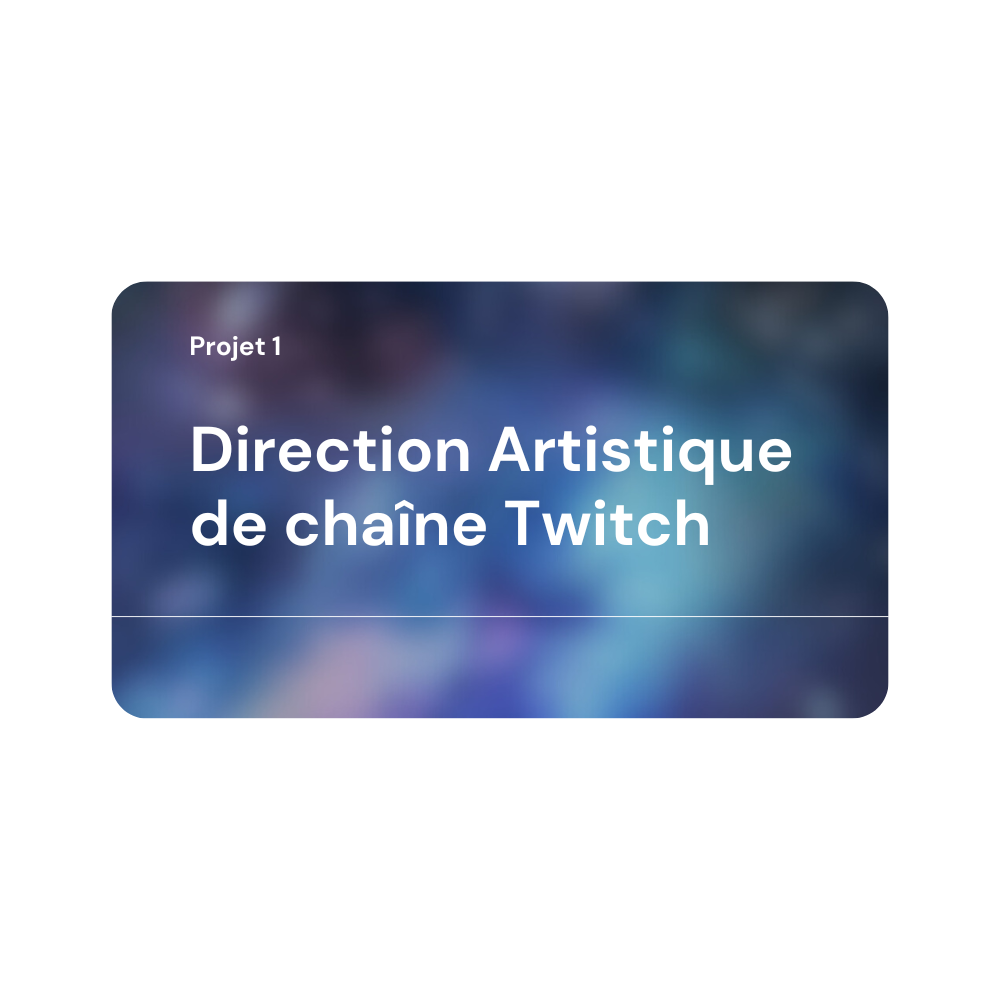
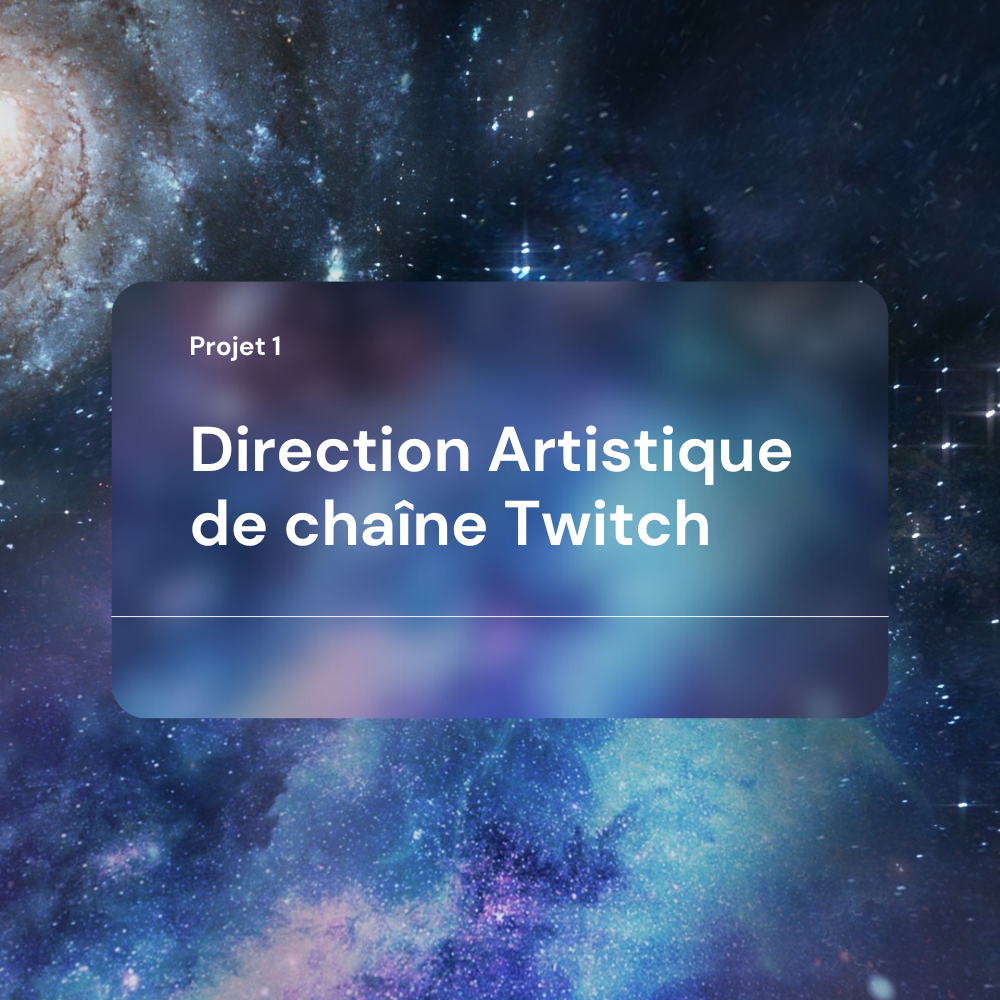
projet-card add

diff --git a/index.html b/index.html
@@ -4,7 +4,7 @@
 <head>
   <meta charset="UTF-8">
[1 lines of base64/hex data omitted]
-  <link rel="stylesheet" href="https://cdnjs.cloudflare.com/ajax/libs/font-awesome/5.15.3/css/all.min.css" integrity="sha512-WHGEBy3Mc0+fMD2cFu+6HxJoM1dWNOz+naqAa/m3E8X+M3r/jpxp7j8TyeafIkMtLaxh1Wzqo9PvQ3BuagP2A==" crossorigin="anonymous" referrerpolicy="no-referrer" />
+  <link rel="stylesheet" href="https://cdnjs.cloudflare.com/ajax/libs/font-awesome/6.4.0/css/all.min.css" integrity="sha512-WHGEBy3Mc0+fMD2cFu+6HxJoM1dWNOz+naqAa/m3E8X+M3r/jpxp7j8TyeafIkMtLaxh1Wzqo9PvQ3BuagP2A==" crossorigin="anonymous" referrerpolicy="no-referrer" />
   <meta name="viewport" content="width=device-width, initial-scale=1.0">
   <title>Portfolio Lavoisier Romain</title>
   <meta name="description" content="Lavoisier Romain, Créateur de Contenus et Community Manager passionné par le thème spatial. Découvrez mon portfolio captivant et explorez l'univers fascinant de mes réalisations.">
@@ -18,5 +18,8 @@
 
 </body>
 <script type="module" src="src/main.js"></script>
+<script src="https://cdnjs.cloudflare.com/ajax/libs/font-awesome/6.4.0/js/all.min.js"></script>
+
+
 
 </html>

diff --git a/src/pages/projets.vue b/src/pages/projets.vue
@@ -12,30 +12,29 @@
         </section>
 
         <div class="container-fluid">
-                <div class="row">
-                    <div class="col-12 sec" id="section">
-                        <h2>Mes Différentes Projets</h2>
+            <div class="row">
+                <div class="col-12 sec" id="section">
+                    <h2>Mes Différentes Projets</h2>
+                    <div class="bloc-projets d-flex">
+                        <div class="text-center col-4">
+                            <div class="image-container">
+                                <img src="../images/projet-1.png" class="image-background" alt="" height="350" width="350">
+                            </div>
+                        </div>
+                        <div class="text-center col-4">
+                            <div class="image-container">
+                                <img src="../images/projet-2.png" class="image-background" alt="" height="350" width="350">
+                            </div>
+                        </div>
+                        <div class="text-center col-4">
+                            <div class="image-container">
+                                <img src="../images/projet-3.png" class="image-background" alt="" height="350" width="350">
+                            </div>
+                        </div>
                     </div>
-                </div>
-                <div class="row sec text-center">
-                    <div class="col-4">
-                        <img src="../images/fond-card.png" alt="" height="500">
-                        <img src="../images/projet-1.png" alt="" height="500">
-
-                    </div>
-                    <div class="col-4">2</div>
-                    <div class="col-4">3</div>
-                </div>
-                <div class="row sec text-center">
-                    <div class="col-4">1</div>
-                    <div class="col-4">2</div>
-                    <div class="col-4">3</div>
                 </div>
             </div>
-
-
-
-
+        </div>
     </body>
 </template>
 
@@ -95,6 +94,7 @@ section img#moon {
 section img#mountain_front {
     z-index: 10;
 }
+
 #btn {
     text-decoration: none;
     padding: 8px 30px;
@@ -124,6 +124,7 @@ h2 span {
     justify-content: center;
     align-items: center;
 }
+
 .sec {
     position: relative;
     padding: 100px;
@@ -135,14 +136,8 @@ h2 span {
     margin-bottom: 10px;
     color: white;
 }
-
-.sec p {
-    font-size: 1.5em;
-    color: white;
-}
-
-.sec img {
-    border-radius: 50px;
-    box-shadow: 0 0 10px rgba(0, 0, 0, 0.5);
+.bloc-projets img {
+    border-radius: 20px;
+    background-color: rgba(0, 0, 0, 0.7);
 }
 </style>

diff --git a/src/components/footer.vue b/src/components/footer.vue
@@ -4,13 +4,16 @@
             <div class="row">
                 <div class="name col-4">
                     <h3>Lavoisier Romain</h3>
-                    <p>Community Manager & créateur de contenus <br>
-                        rom.lavoisier@gmail.com</p>
+                    <p>Community Manager & créateur de contenus</p>
                 </div>
                 <div class="col-8 d-flex justify-content-center align-items-center">
                     <a class="box-icon" href="/"><i><font-awesome-icon icon="fab fa-facebook-f" /></i></a>
                     <a class="box-icon" href="/"><i><font-awesome-icon icon="fab fa-instagram" /></i></a>
                     <a class="box-icon" href="/"><i><font-awesome-icon icon="fab fa-youtube" /></i></a>
+                    <a class="box-icon" href="/"><i><font-awesome-icon icon="fab fa-twitch" /></i></a>
+                    <a class="box-icon" href="/"><i><font-awesome-icon icon="fab fa-tiktok" /></i></a>
+
+
                 </div>
             </div>
         </div>

diff --git a/src/main.js b/src/main.js
@@ -6,7 +6,6 @@ import { FontAwesomeIcon } from '@fortawesome/vue-fontawesome'
 import { faFacebookF, faInstagram, faYoutube, faApple, faAndroid } from '@fortawesome/free-brands-svg-icons'
 library.add(faFacebookF, faInstagram, faYoutube, faApple, faAndroid)
 
-
 import App from './App.vue'
 import Index from './pages/index.vue'
 import Explorateur from './pages/explorateur.vue'

diff --git a/src/pages/competences.vue b/src/pages/competences.vue
@@ -221,7 +221,6 @@ h2 span {
     filter: blur(3px);
 }
 .overlay-text {
-
     position: absolute;
     top: 50%;
     left: 50%;
